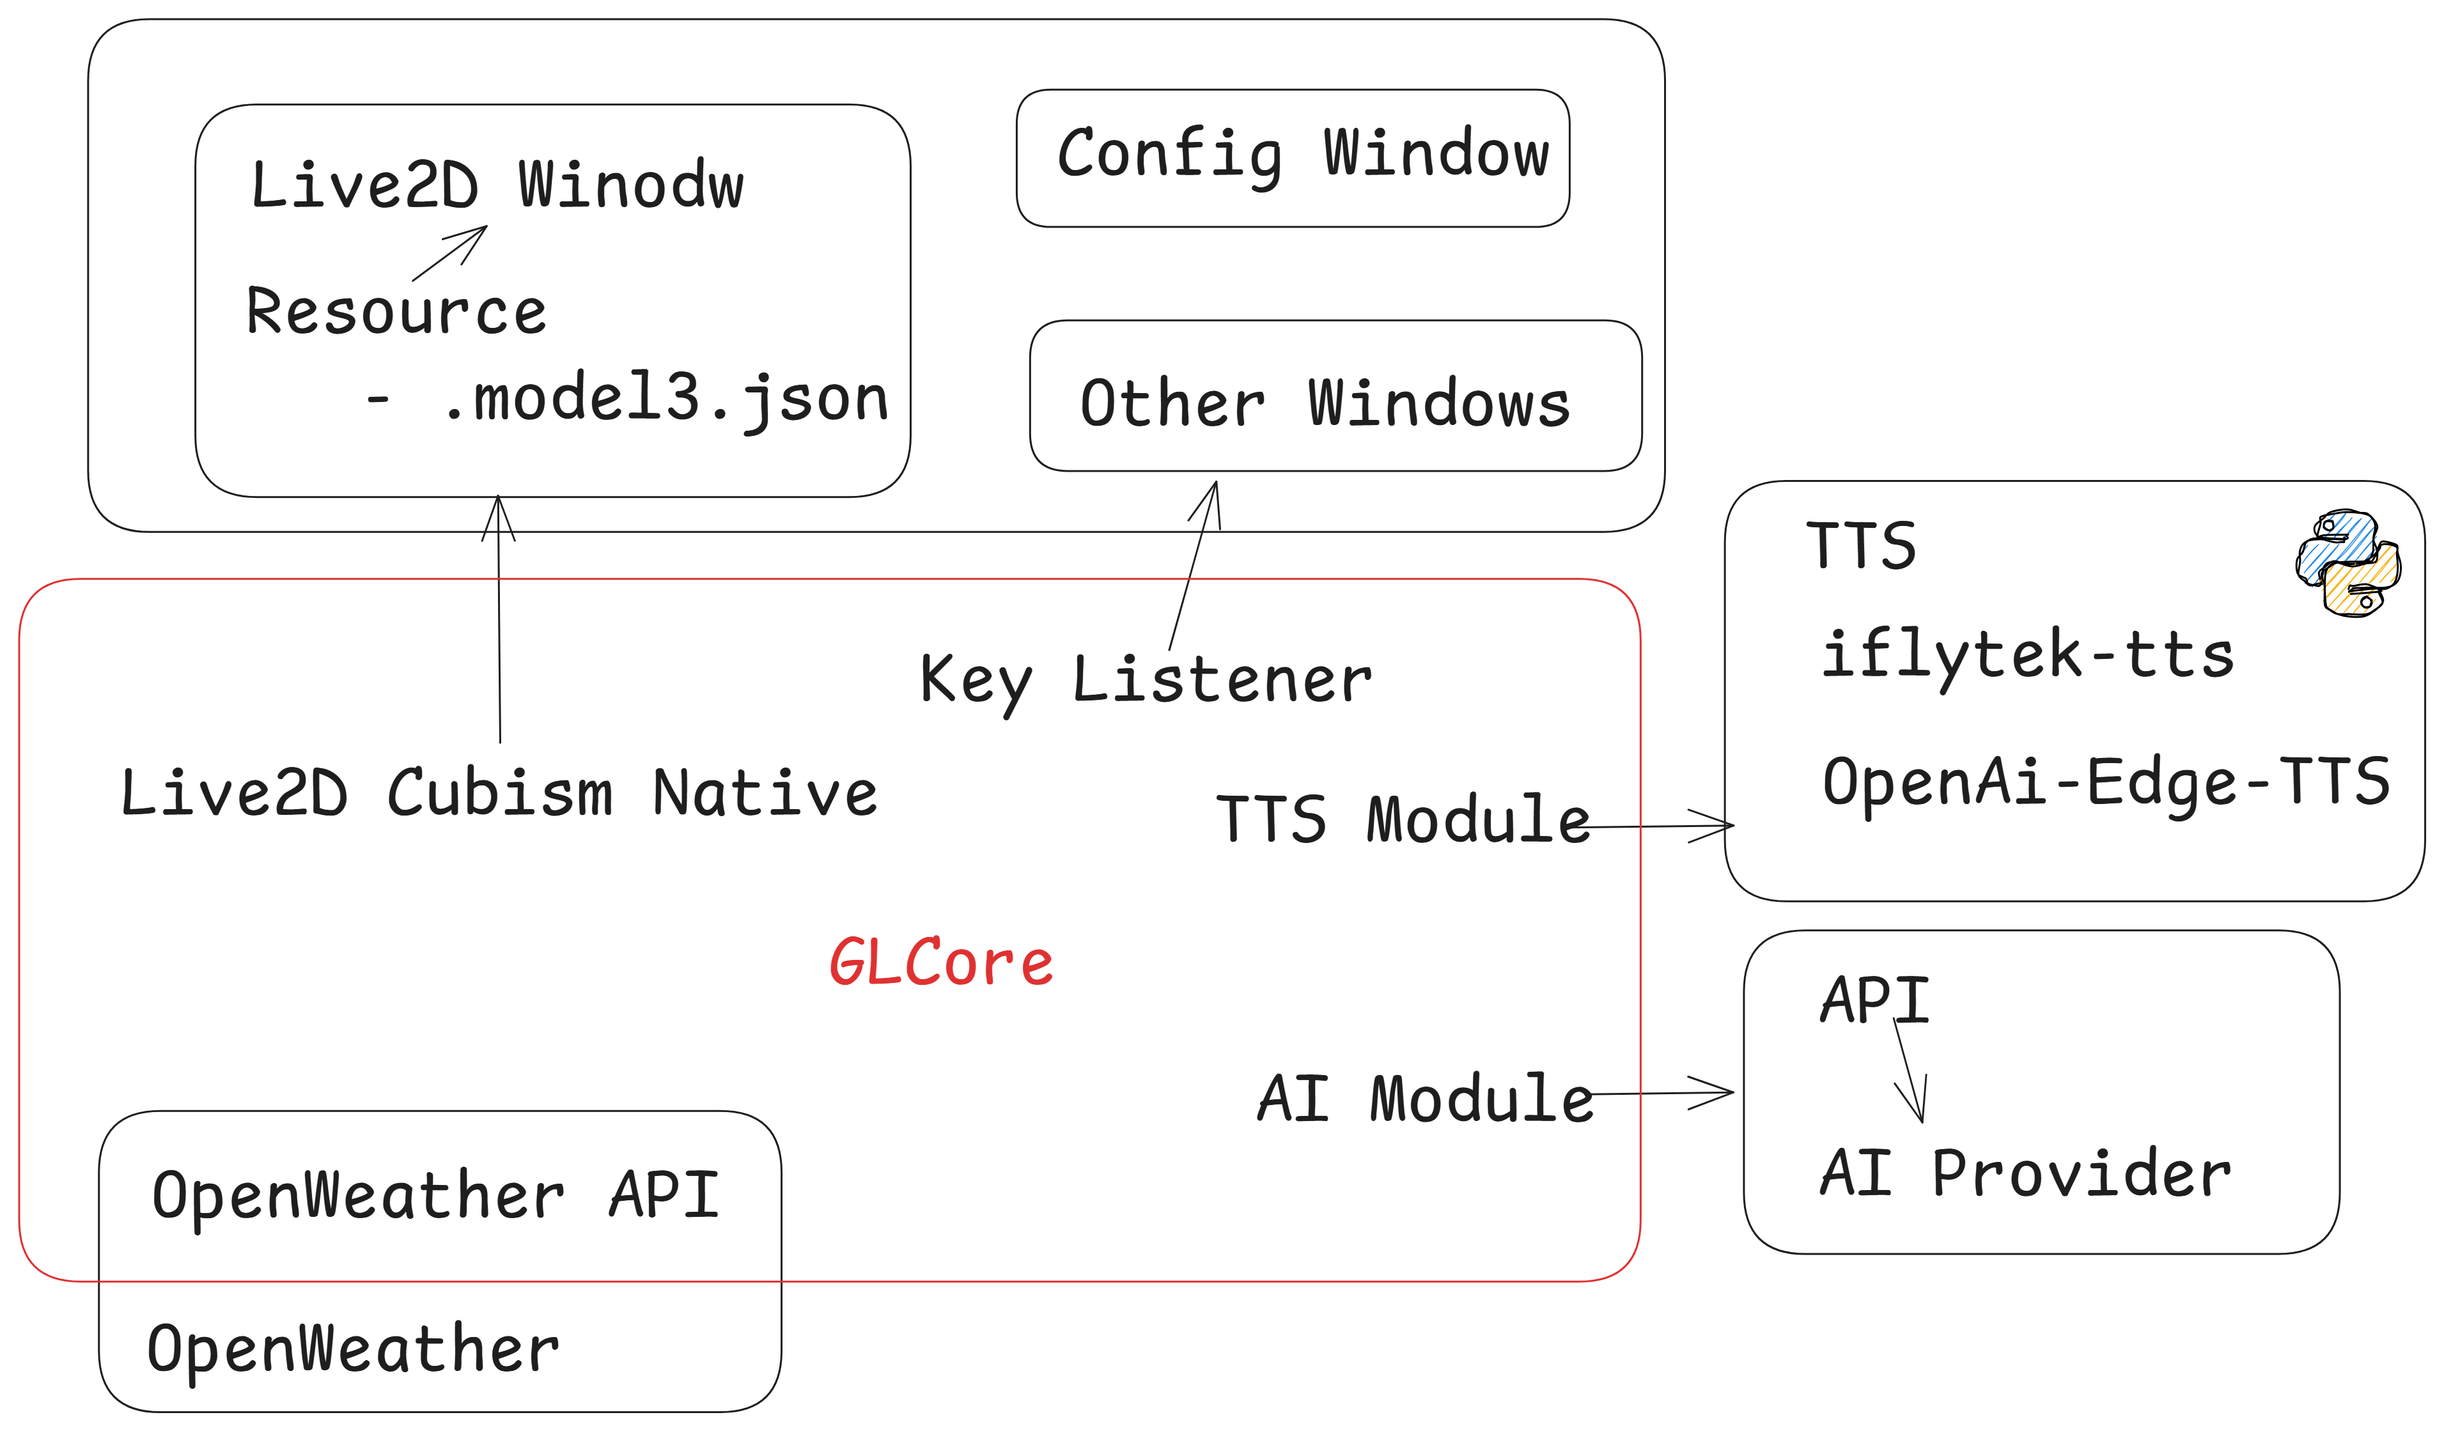
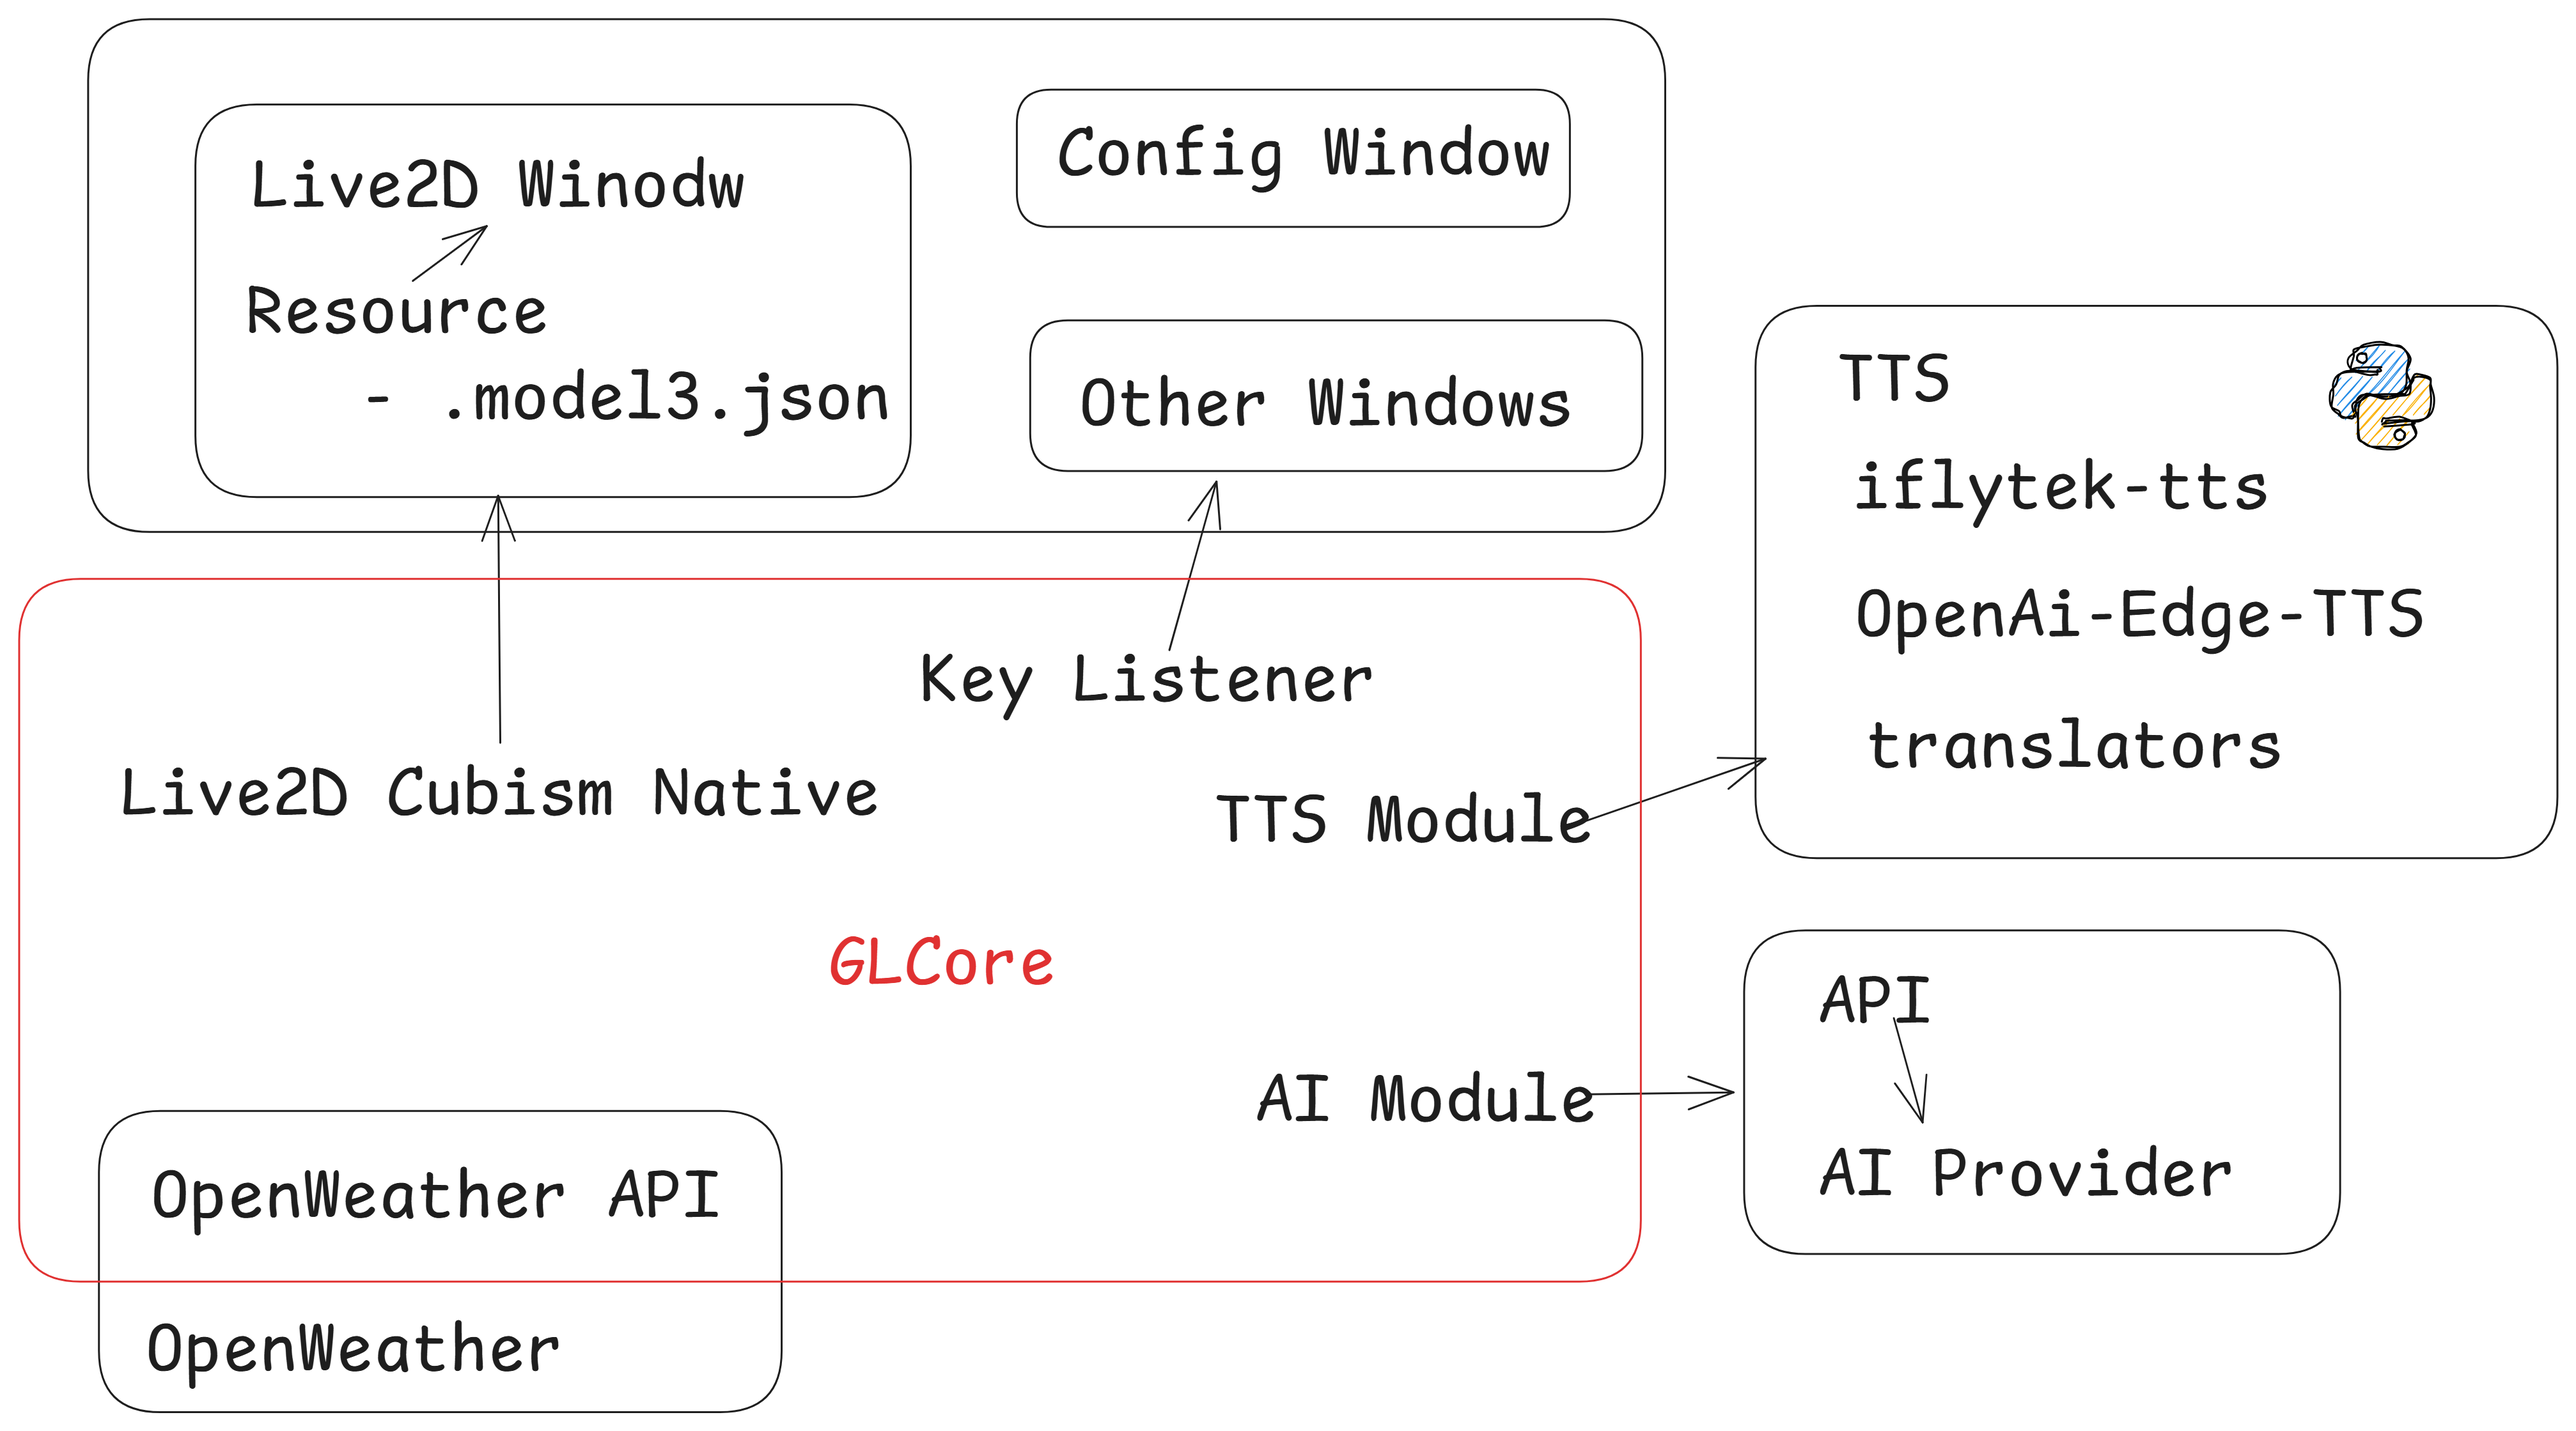
docs: README.md CREDITS.md

diff --git a/CREDITS.md b/CREDITS.md
@@ -18,13 +18,14 @@
 
 | 库名               | 版本       | 描述                                                         | 许可协议     | 官方链接                                            |
 | :------------------: | :---------: | :------------------------------------------------------------: | :-----------: | :--------------------------------------------------: |
-| edge-tts           | 7.2.8      | 使用 Microsoft Edge 的文本转语音服务，提供命令行和 Python API。 | GPL-3.0      | <https://github.com/rany2/edge-tts>                 |
+| edge-tts           | 7.2.8      | 使用 Microsoft Edge 的文本转语音服务，提供命令行和 Python API。 | MIT       | <https://github.com/rany2/edge-tts>                 |
 | emoji              | 2.15.0     | 在 Python 中处理 emoji 字符，支持搜索、替换和语义识别。         | BSD-3-Clause | <https://pypi.org/project/emoji>                    |
-| gevent             | 26.4.0     | 基于 greenlet 的协程并发网络库，提供高层次的同步 API。          | MIT          | <http://www.gevent.org>                             |
+| gevent             | 26.4.0     | 基于 greenlet 的协程并发网络库，提供高层次的同步 API。          | MIT          | <https://pypi.org/project/gevent>                             |
 | openai-edge-tts    | Git 仓库   | Free, high-quality text-to-speech API endpoint to replace OpenAI, Azure, or ElevenLabs    |  GPL-3.0 license          | <https://github.com/travisvn/openai-edge-tts>       |
 | PySide6            | 6.11.0     | Qt for Python 的主要绑定，提供全面的 Qt 6 API 访问。            | LGPL         | <https://doc.qt.io/qtforpython/>                    |
 | python-dotenv      | 1.2.2      | 从 .env 文件加载键值对环境变量到 os.environ。                   | BSD-3-Clause | <https://pypi.org/project/python-dotenv>            |
 | websocket-client   | 1.9.0      | 纯 Python 实现的 WebSocket 客户端。                             | LGPL         | <https://github.com/websocket-client/websocket-client> |
+| translators        | 6.0.4      | 统一调用 Google、Bing、DeepL 等多种翻译服务的 Python 库。      | GPL-3.0          | <https://github.com/UlionTse/translators>           |
 
 ## 其他使用的资源
 

diff --git a/assets/text/CREDITS.md b/assets/text/CREDITS.md
@@ -18,13 +18,14 @@
 
 | 库名               | 版本       | 描述                                                         | 许可协议     | 官方链接                                            |
 | :------------------: | :---------: | :------------------------------------------------------------: | :-----------: | :--------------------------------------------------: |
-| edge-tts           | 7.2.8      | 使用 Microsoft Edge 的文本转语音服务，提供命令行和 Python API。 | GPL-3.0      | <https://github.com/rany2/edge-tts>                 |
+| edge-tts           | 7.2.8      | 使用 Microsoft Edge 的文本转语音服务，提供命令行和 Python API。 | MIT       | <https://github.com/rany2/edge-tts>                 |
 | emoji              | 2.15.0     | 在 Python 中处理 emoji 字符，支持搜索、替换和语义识别。         | BSD-3-Clause | <https://pypi.org/project/emoji>                    |
-| gevent             | 26.4.0     | 基于 greenlet 的协程并发网络库，提供高层次的同步 API。          | MIT          | <http://www.gevent.org>                             |
+| gevent             | 26.4.0     | 基于 greenlet 的协程并发网络库，提供高层次的同步 API。          | MIT          | <https://pypi.org/project/gevent>                             |
 | openai-edge-tts    | Git 仓库   | Free, high-quality text-to-speech API endpoint to replace OpenAI, Azure, or ElevenLabs    |  GPL-3.0 license          | <https://github.com/travisvn/openai-edge-tts>       |
 | PySide6            | 6.11.0     | Qt for Python 的主要绑定，提供全面的 Qt 6 API 访问。            | LGPL         | <https://doc.qt.io/qtforpython/>                    |
 | python-dotenv      | 1.2.2      | 从 .env 文件加载键值对环境变量到 os.environ。                   | BSD-3-Clause | <https://pypi.org/project/python-dotenv>            |
 | websocket-client   | 1.9.0      | 纯 Python 实现的 WebSocket 客户端。                             | LGPL         | <https://github.com/websocket-client/websocket-client> |
+| translators        | 6.0.4      | 统一调用 Google、Bing、DeepL 等多种翻译服务的 Python 库。      | GPL-3.0          | <https://github.com/UlionTse/translators>           |
 
 ## 其他使用的资源
 

diff --git a/README.md b/README.md
@@ -62,8 +62,8 @@
 > 时间尚不充裕，择机编写
 
 - pmx支持(计划引入：benikabocha/saba)
-- 将输出翻译成指定语言后再TTS(可能通过Qt设置，Python实现)
 - 多语言支持(低优先级)
+- 新TTS服务支持(voicevox)
 
 ### 预览
 
